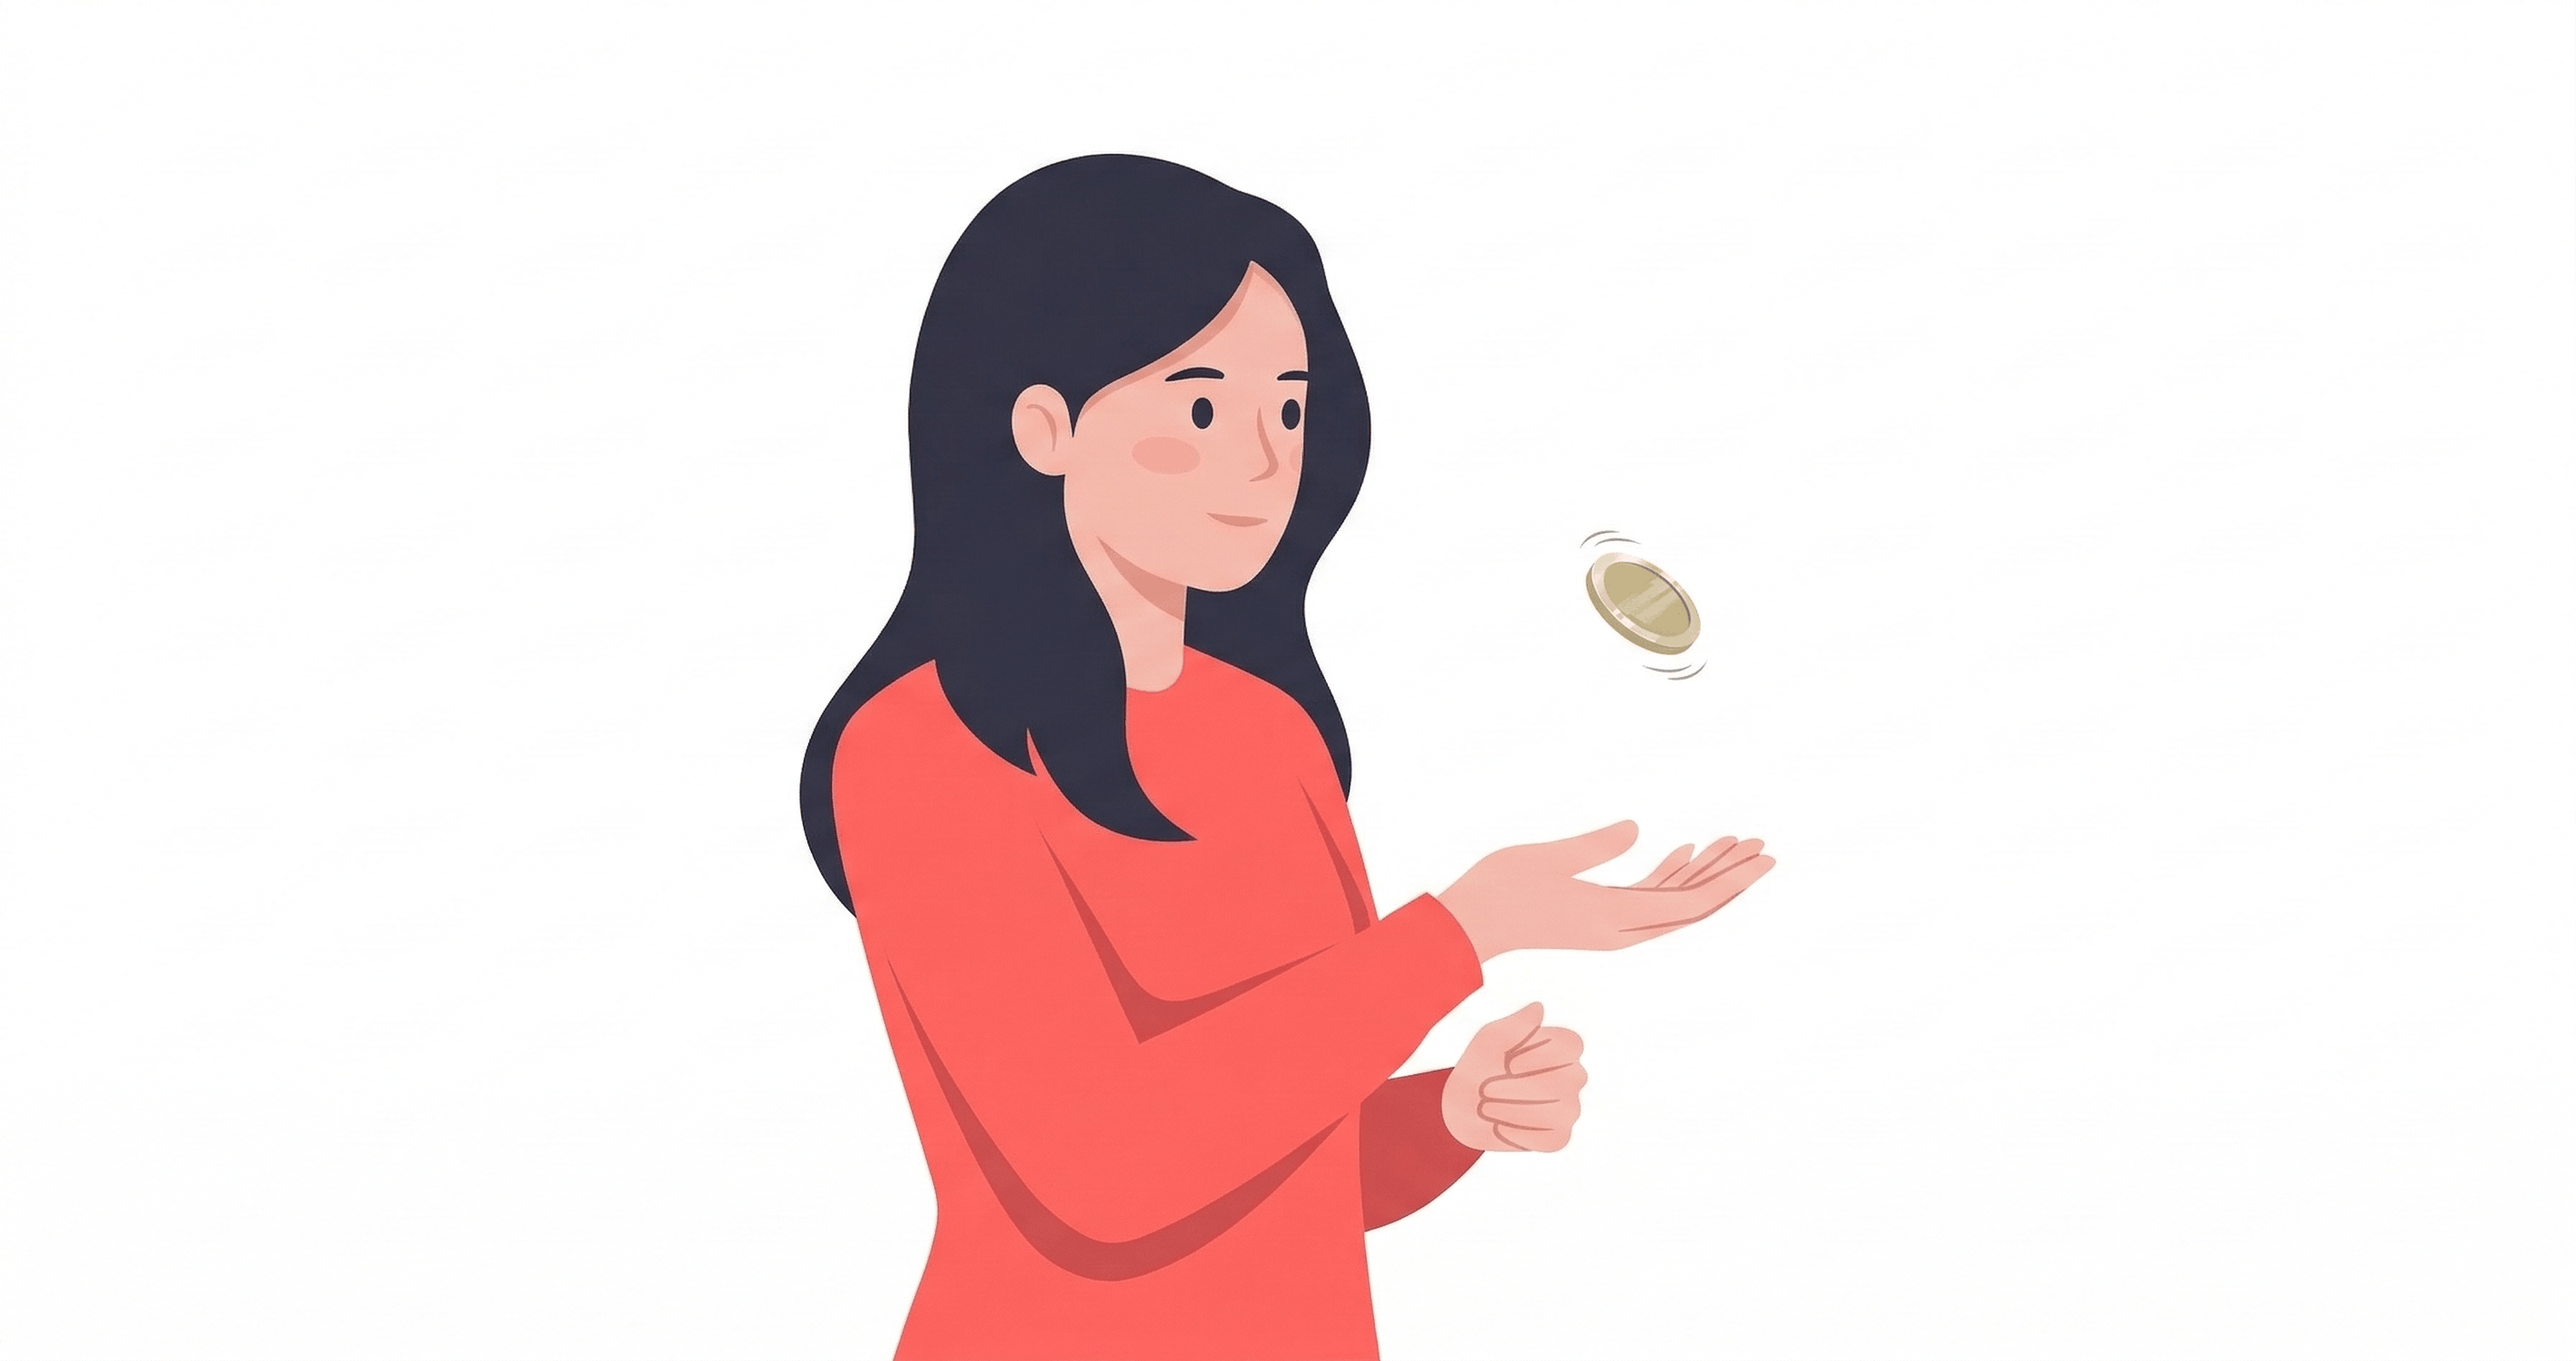
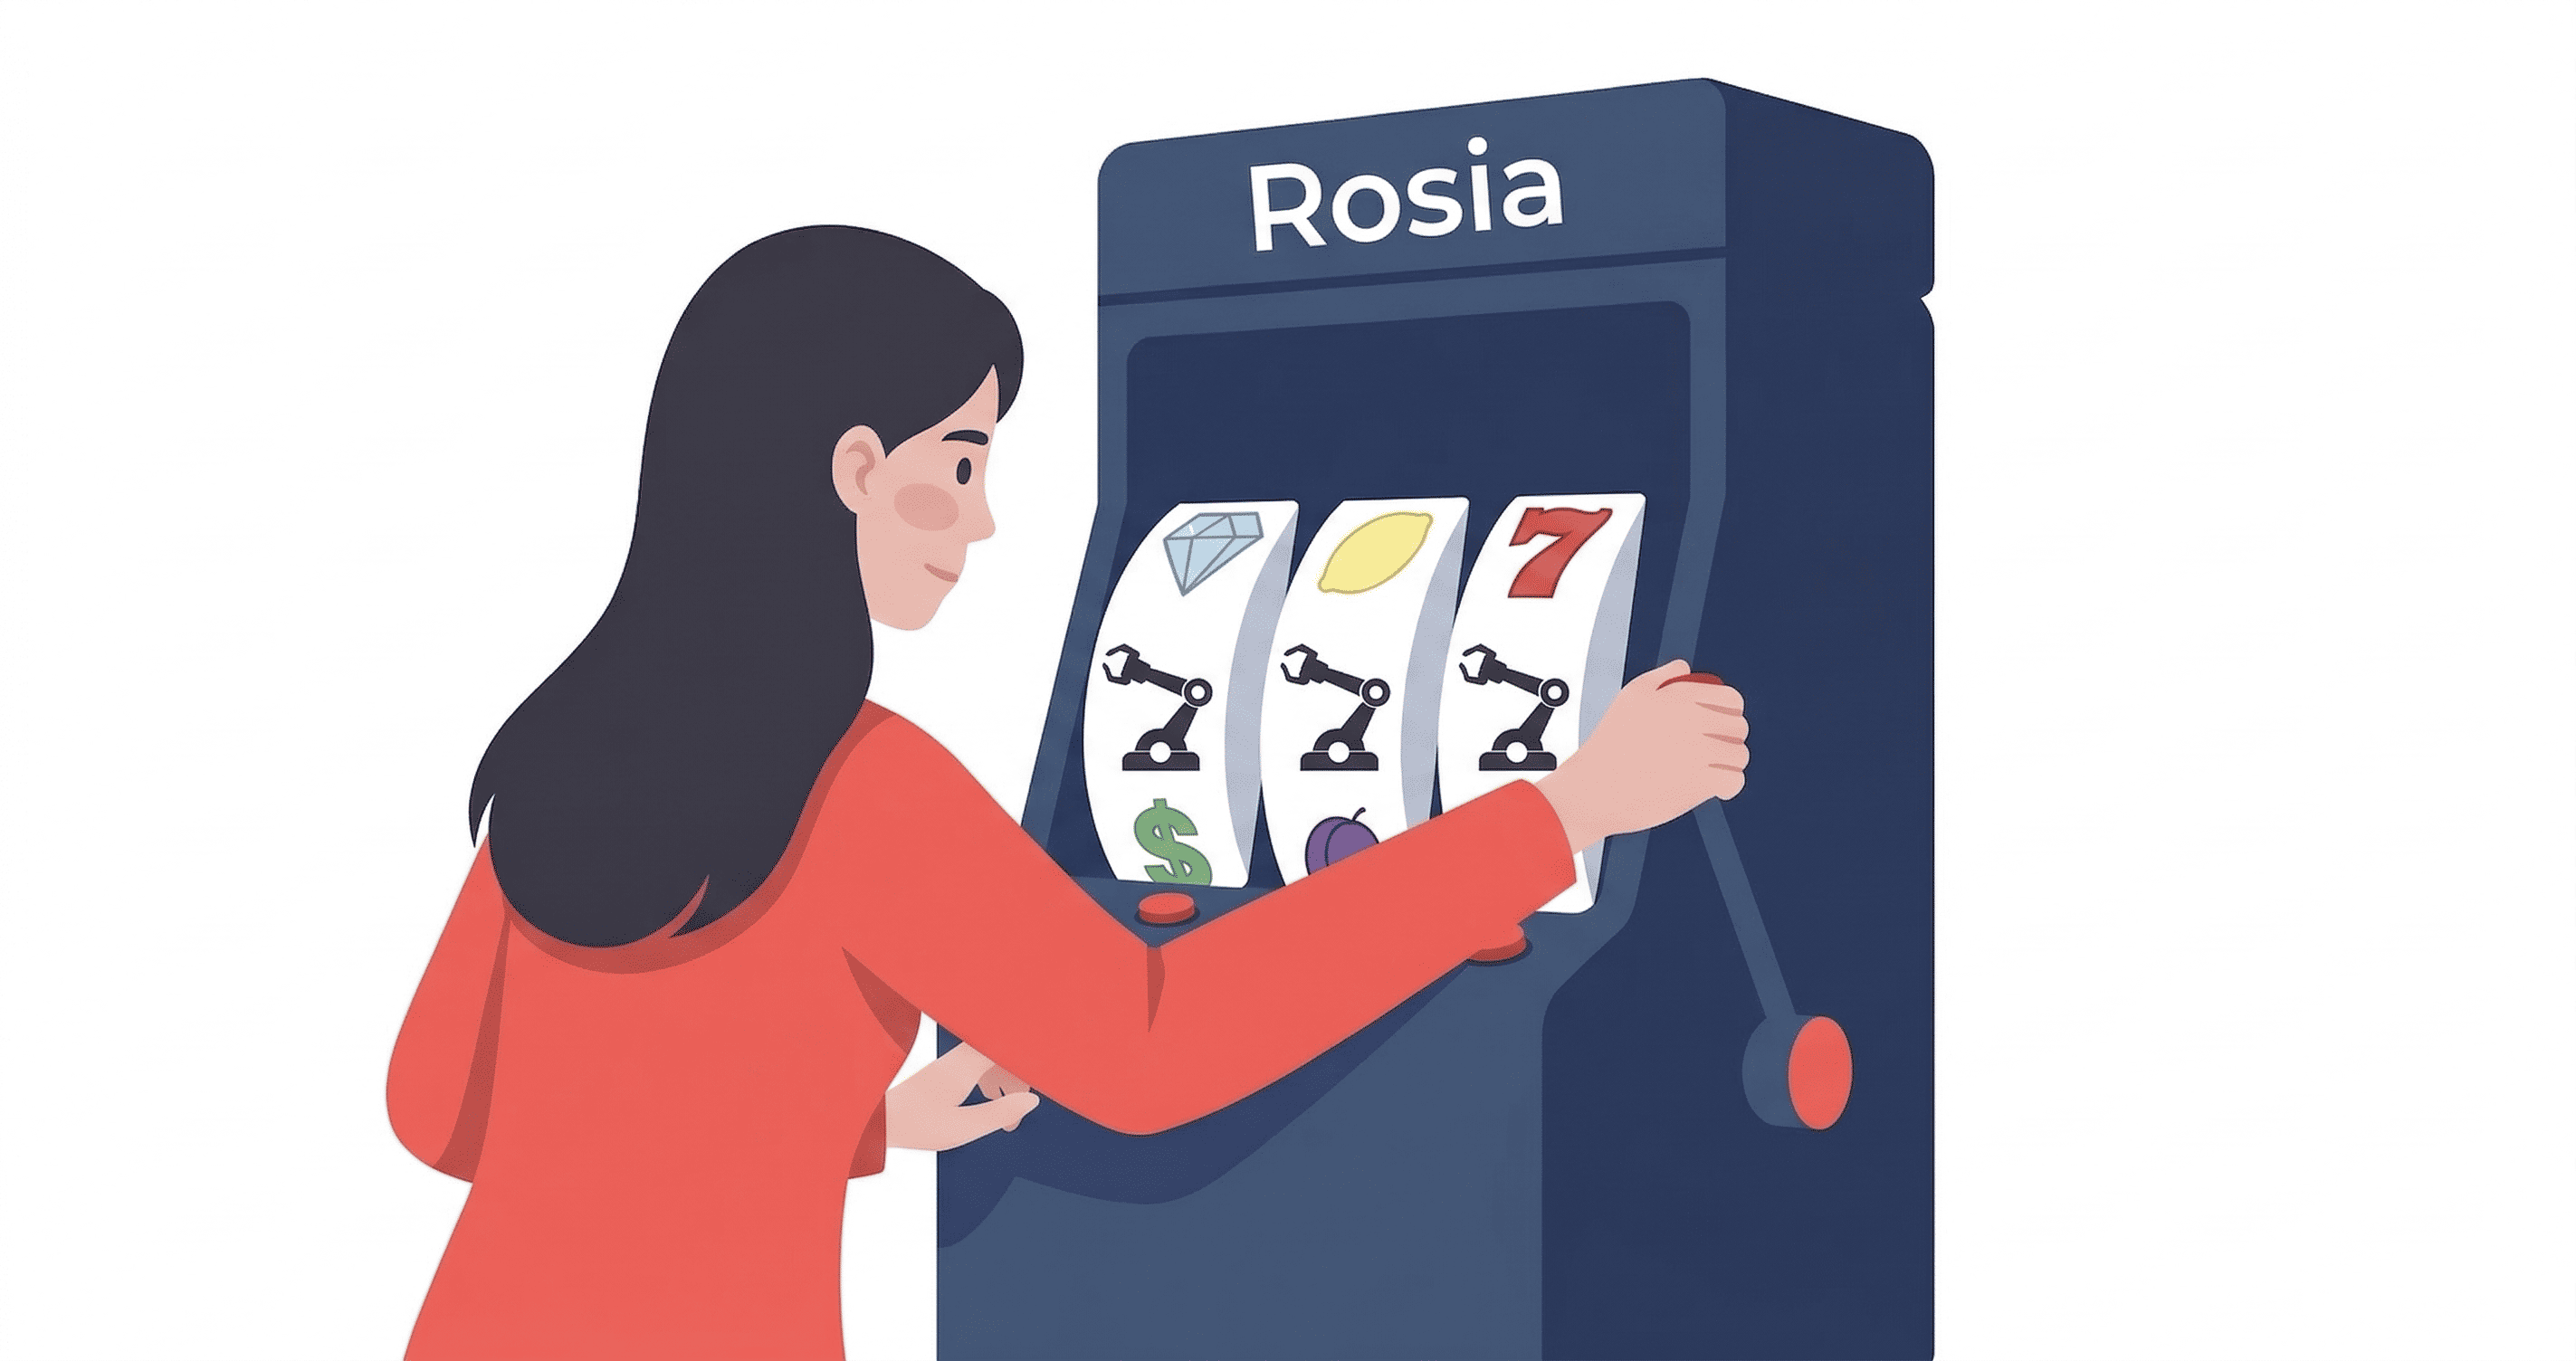
docs: update

diff --git a/docs/src/components/HomepageFeatures/index.tsx b/docs/src/components/HomepageFeatures/index.tsx
@@ -11,19 +11,19 @@ type FeatureItem = {
 
 const FeatureList: FeatureItem[] = [
   {
-    title: "Performance",
+    title: "Performant",
     image: "/img/features/performant.png",
-    description: <>Rosia is designed from the ground up to be performant and efficient with low latency.</>,
+    description: <>Rosia has more than 2x lower latency compared to ROS2. It also features true concurrency without being blocked by Python's Global Interpreter Lock.</>,
   },
   {
-    title: "Deterministic and Reproducible",
+    title: "Reproducible",
     image: "/img/features/deterministic.png",
-    description: <>Rosia is deterministic and reproducible, ensuring that the same results are obtained regardless of the runtime.</>,
+    description: <>Rosia is reproducible with deterministic execution, allowing you to easily debug and test your robotic applications.</>,
   },
   {
-    title: "Fully Pythonic",
+    title: "Component-based",
     image: "/img/features/python.png",
-    description: <>Rosia is designed to be fully Pythonic, allowing you to use it in your existing Python projects.</>,
+    description: <>Rosia is component-based with ports and connections, allowing you to easily isolate and reuse code.</>,
   },
 ];
 

diff --git a/docs/src/pages/index.tsx b/docs/src/pages/index.tsx
@@ -4,7 +4,7 @@ import Link from "@docusaurus/Link";
 import useDocusaurusContext from "@docusaurus/useDocusaurusContext";
 import Layout from "@theme/Layout";
 import HomepageFeatures from "@site/src/components/HomepageFeatures";
-import Heading from "@theme/Heading";
+// import Heading from "@theme/Heading";
 
 import styles from "./index.module.css";
 
@@ -13,13 +13,14 @@ function HomepageHeader() {
   return (
     <header className={clsx("hero hero--primary", styles.heroBanner)}>
       <div className="container">
-        <Heading as="h1" className="hero__title">
+        {/* <Heading as="h1" className="hero__title">
           {siteConfig.title}
-        </Heading>
+        </Heading> */}
+        <img src="img/rosia_white.svg" alt={siteConfig.title} style={{ height: "6rem" }} />
         <p className="hero__subtitle">{siteConfig.tagline}</p>
         <div className={styles.buttons}>
           <Link className="button button--secondary button--lg" to="/docs/quick-start">
-            Quick Start in 5 mins ⏱️
+            Quick Start in 3 mins ⏱️
           </Link>
         </div>
       </div>

diff --git a/docs/docusaurus.config.ts b/docs/docusaurus.config.ts
@@ -16,7 +16,7 @@ const config: Config = {
     },
   ],
   title: "Rosia",
-  tagline: "Rosia is a reproducible robotics framework, currently in alpha testing.",
+  tagline: "A reproducible robotic middleware",
   favicon: "img/favicon.ico",
 
   // Future flags, see https://docusaurus.io/docs/api/docusaurus-config#future

diff --git a/docs/src/components/HomepageFeatures/styles.module.css b/docs/src/components/HomepageFeatures/styles.module.css
@@ -7,6 +7,6 @@
 
 .featureSvg {
   height: 200px;
-  width: 200px;
+  width: 300px;
   object-fit: cover;
 }

diff --git a/benchmark/benchmarks/run_benchmarks.py b/benchmark/benchmarks/run_benchmarks.py
@@ -69,9 +69,9 @@ def main():
     all_results = {}
 
     benchmarks = {
+        "rosia": lambda: benchmark_rosia(ARRAY_SIZES, num_iterations=NUM_ITERATIONS),
         "rclpy": lambda: benchmark_rclpy(ARRAY_SIZES, num_iterations=NUM_ITERATIONS),
         "ray": lambda: benchmark_ray(ARRAY_SIZES, num_iterations=NUM_ITERATIONS),
-        "rosia": lambda: benchmark_rosia(ARRAY_SIZES, num_iterations=NUM_ITERATIONS),
     }
 
     for name, run_fn in benchmarks.items():

diff --git a/benchmark/benchmarks/rosia_bench.py b/benchmark/benchmarks/rosia_bench.py
@@ -101,7 +101,6 @@ def benchmark_rosia(
 
     app.execute()
 
-    # Read results back from file (nodes run in separate processes)
     if os.path.exists(results_path):
         with open(results_path, "r") as f:
             raw = json.load(f)